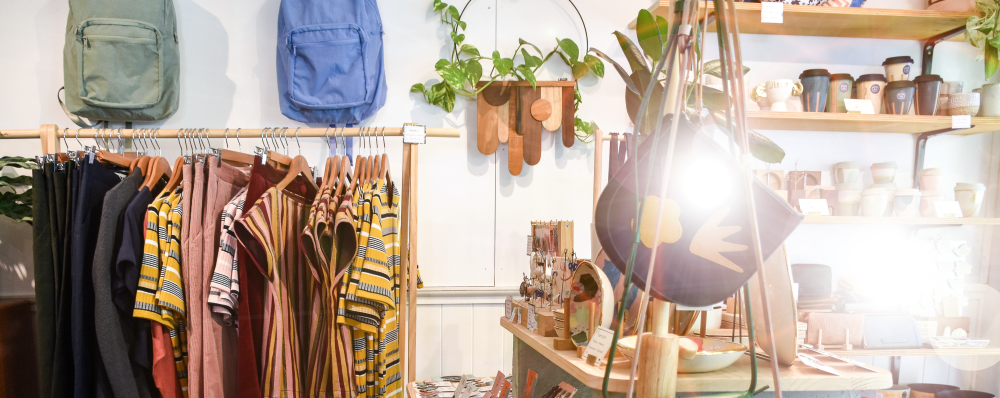
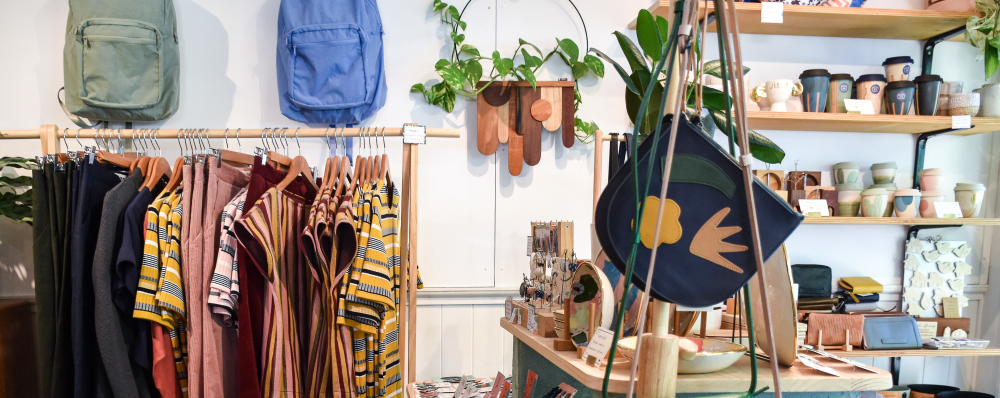
Responsive images

diff --git a/_scss/cover_image.scss b/_scss/cover_image.scss
@@ -18,9 +18,15 @@
   }
 }
 
-@media (min-width: 768px) {
+@media (min-width: 768px) and (max-width: 1024px) {
   #gnd-cover-image-section {
     background-image: url('/assets/img/cover_image_1024.png');
+  }
+}
+
+@media (min-width: 1024px) {
+  #gnd-cover-image-section {
+    background-image: url('/assets/img/cover_image_1280.png');
   }
 }
 

diff --git a/index.md b/index.md
@@ -2,7 +2,6 @@
 layout: home
 ---
 <section id="gnd-cover-image-section">
-  <span>Compre no atacado de forma mais simples</span>
 </section>
 
 <section id="gnd-institutional-activities">
